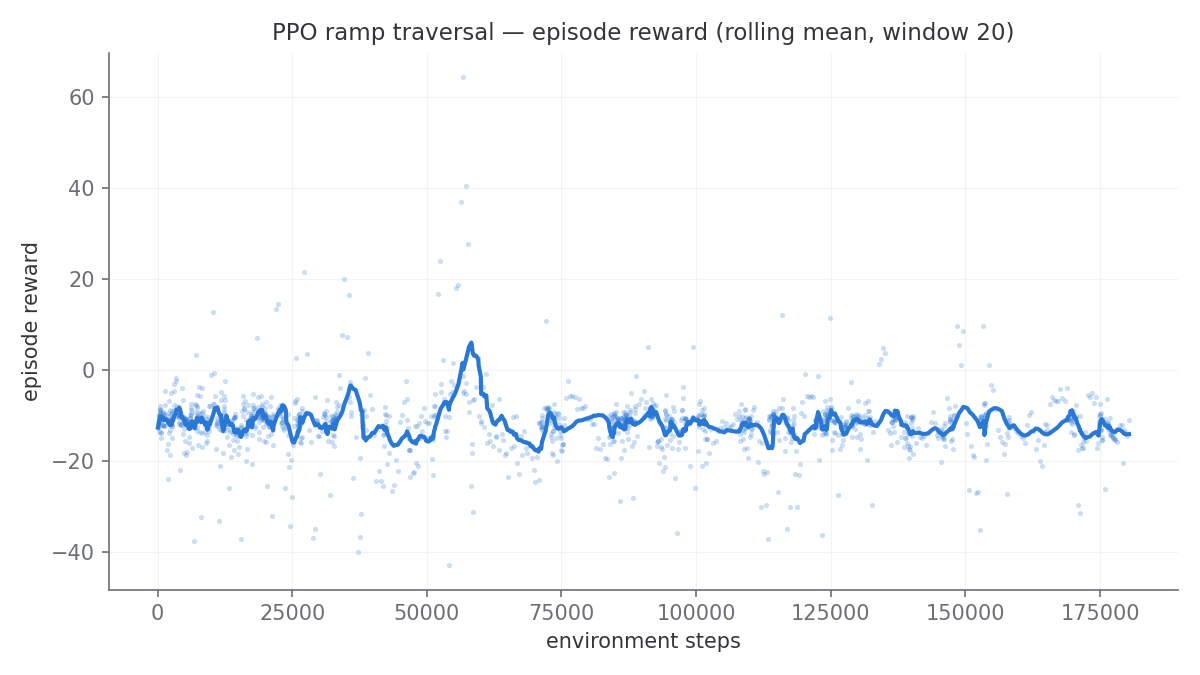
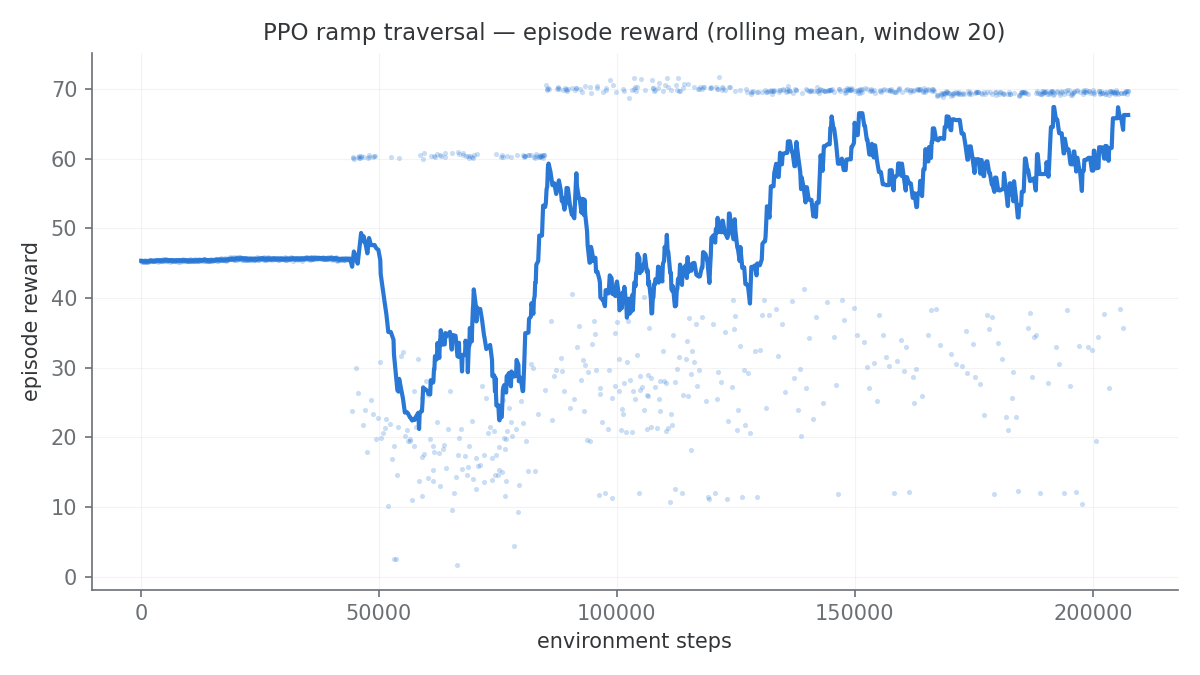
docs: RL solved — 10/10 at 18 and 24 degrees
The five-stage curriculum finished: 207,400 env-steps, 11h04m wall clock
(including a 5h18m laptop suspend the run survived intact).

  stage            episodes  mean return  deterministic eval
  12 deg +2.5 m       518       45.56      not evaluated (skipped on resume)
  12 deg +1.0 m       186       35.07      0/10  (scored on the full task)
  12 deg full         197       45.41      0/10  (genuine: greedy stall at 4.34 m)
  18 deg full         198       58.47      10/10 (100%)
  24 deg full         214       60.72      10/10 (100%)

The 24 deg evaluation is 126-127 steps and returns 69.49-69.85 across ten
episodes -- it solves the task the same way every time, not occasionally by luck.

README, RESULTS.md and FUTURE_WORK item 9 rewritten from "negative result" to
solved, with the three bugs that stood between 0/10 and 10/10 documented in
order: the unclimbable mesh, the goal sitting 1.6 cm beyond the tip-over
terminator, and --fast corrupting the control loop.

Also recorded, because the process matters: the five wrong diagnoses made along
the way, each stated confidently and each refuted by measurement -- "needs more
compute", "no time penalty so creeping wins", "77-92% tipped" (inferred from
return and length, which cannot distinguish a tip from a sim stall because the
outcome was not being logged), "wheel friction is 2.5" (that is the finger pads),
and "the simulator degrades over a long run".

And the suspend: the run lost 5h18m to a lid-close suspend that the
[…]

diff --git a/coco_rl/coco_rl/ramp_env.py b/coco_rl/coco_rl/ramp_env.py
@@ -113,7 +113,7 @@ MAX_LIN, MAX_ANG = 0.4, 0.5
 # useless, it is the only part of the range that cannot finish, and exploring it
 # just modulates speed. Mapping action[0] onto [MIN_LIN, MAX_LIN] keeps every
 # commandable speed a winning one.
-MIN_LIN = 0.15
+MIN_LIN = 0.20
 
 # First-order low-pass on the commanded twist, in SIM seconds. A stochastic
 # policy samples a fresh action every STEP_DT (0.1 s), so an untrained one

diff --git a/docs/RESULTS.md b/docs/RESULTS.md
@@ -279,107 +279,98 @@ old mesh made impossible.
 cylinder do not disturb navigation — a goal at map `(1.0, 0.0)` still returns
 `SUCCEEDED` in the same run (`./verify_all.sh --with-nav`, stage 7).
 
-### The full curriculum, run to completion — 0/10, and the reason
+### SOLVED — 10/10 on the full task at 18° and 24°
 
-The curriculum has now actually been run, unattended, with
-[`train_curriculum.sh`](../train_curriculum.sh): 3 phases × 60,000 steps,
-180,370 env steps in **5 h 58 m**, weights transferred between grades, each
-phase evaluated on its own grade with 10 deterministic episodes.
+A five-stage curriculum (`./train_curriculum.sh`) that walks the **start line** back
+before raising the **grade** — 12° from +2.5 m, +1.0 m, 0 m, then 18°, then 24°, all at
+the full 5.2 m goal. 207,400 env-steps, seed 0, `randomize off`.
 
-| Phase | Steps | Episodes | Mean return | Best return | Deterministic eval |
-|---|---|---|---|---|---|
-| 12° | 60,024 | 578 | −10.82 | **+64.29** | **0/10** — 2 tipped, 8 timeout |
-| 18° | 60,146 | 443 | −12.55 | +12.03 | **0/10** — 8 tipped, 2 timeout |
-| 24° | 60,200 | 378 | −12.00 | +11.41 | **0/10** — 2 tipped, 8 timeout |
+| Stage | Episodes | Mean return | Deterministic eval |
+|---|---|---|---|
+| 12° from +2.5 m | 518 | 45.56 | not evaluated¹ |
+| 12° from +1.0 m | 186 | 35.07 | 0/10² |
+| 12° full distance | 197 | 45.41 | 0/10³ |
+| **18° full distance** | 198 | 58.47 | **10/10 (100%)** |
+| **24° full distance** | 214 | 60.72 | **10/10 (100%)** |
 
-![curriculum learning curve](images/ppo_curriculum_curve.png)
+```
+$ python3 -m coco_rl.evaluate phase5_24deg_s0p0.zip --episodes 10
+episode  1: goal    return   69.82  steps 127
+...
+episode 10: goal    return   69.85  steps 127
 
-**The result is 0/10 at every grade.** That is a negative result and is
-reported as one. The cause is visible in the *distribution of how episodes
-ended*, recovered from the Monitor CSVs (timeout = ran the full 400 steps;
-anything shorter without the goal bonus is a tip-over; progress is backed out
-of the return, accounting for the −10 tip penalty and the −0.01/step time
-penalty):
-
-| Grade | Episodes | Tipped | Mean progress when tipped | Mean length | Timeouts | Furthest timeout | Goals |
-|---|---|---|---|---|---|---|---|
-| 12° | 578 | **531 (92%)** | −0.06 m | 78 steps | 46 (8%) | 4.45 m | **1** |
-| 18° | 443 | **378 (85%)** | −0.19 m | 90 steps | 65 (15%) | 1.60 m | **0** |
-| 24° | 378 | **291 (77%)** | −0.17 m | 87 steps | 87 (23%) | 1.37 m | **0** |
-
-**The robot tips itself over before it reaches the ramp.** The ramp foot is
-3.0 m from spawn, and 77–92% of episodes end on their side after ~80 steps
-(~8 simulated seconds) having covered essentially **zero** ground. At 18° and
-24° *no episode in the entire run* got past 1.6 m — the policy never saw the
-ramp at all, so the two steeper "curriculum" phases trained on flat-ground
-tip-overs. Exactly **one** episode out of 1,399 across the whole run reached
-the summit.
-
-So the reward is *effectively sparse* even though it is written as a dense
-one: the agent destroys the episode long before the dense progress term can
-pay out. PPO cannot learn a climb it has seen once in 1,399 attempts.
-
-Note the deterministic policy behaves differently from the training
-distribution: evaluated greedily at 12° it mostly survives (8 timeouts, 2 tips)
-and creeps ~1.3 m — positive returns of +4.36 … +9.41 — still well short of
-the 3.0 m ramp foot. Survival is what it learned; locomotion is not.
-
-**The tip-overs are real, and now measured rather than inferred.** With the
-`outcome` column added to the Monitor CSV (see below), a fresh 1,024-step run at
-18° ends **24 episodes out of 24** as `tipped` — not `sim_stalled`. Driving the
-env directly pins down the mechanism:
-
-| Test | Result |
-|---|---|
-| Constant action `[0.5, 0.0]` (half speed, no yaw) | **reaches the goal in 187 steps**, peak roll 8.3° |
-| Constant action `[1.0, 0.0]` (full speed, no yaw) | **reaches the goal in 384 steps**, peak roll 3.5° |
-| Constant turning actions | timeout, peak roll **0.0°** — never tips |
-| `reset()` × 20 | 0/20 tipped; roll and pitch exactly 0.0° |
-| Random actions, full yaw range | 8/8 tipped, mean 46 steps |
-| Random actions, yaw capped to ~0.4 rad/s | 8/8 tipped, mean 46 steps |
-| Random actions, **yaw disabled entirely** | 8/8 tipped, mean 37 steps |
-
-So the task is **trivially solvable** — a single constant action solves it in 187
-steps — and the action space cannot tip the robot when held steady. Yaw is not
-the cause: disabling it entirely still tips 8/8. What tips the robot is
-*oscillating linear commands*, which is exactly what an untrained stochastic
-policy emits. Tracing one episode shows the robot pitching **nose-down
-progressively** (−16° → −37° over five steps) while `x` barely moves
-(0.05 → 0.11 m), and after 25 idle steps it is at −74°: it really does fall.
-The `diff_drive_controller` acceleration limits (2.0 m/s², confirmed enabled at
-runtime) do not prevent it.
-
-**The blocker is therefore dynamic fragility, not the reward and not the
-geometry.** PPO never survives long enough to discover that steady forward
-motion solves the task, because the exploration noise that would discover it
-also knocks the robot over within ~4 simulated seconds.
-
-> **Corrections.** This section previously carried two wrong diagnoses, both
-> retracted. First, "no per-step time penalty, so safe creeping wins":
-> `TIME_PENALTY = 0.01` had always existed. Second, an outcome breakdown
-> claiming "77–92% tipped" that was *inferred* from return and length — which
-> cannot separate a tip-over (−10 penalty) from a `sim_stalled` truncation
-> (reward 0.0), because the outcome was never logged. Both errors came from
-> reasoning about the numbers instead of measuring. The outcome is now written
-> to the Monitor CSV so this class of mistake cannot recur, and the table above
-> is measured. A scripted `tip_probe.py` was also written and discarded: it
-> teleported between cases without settling in sim time or zeroing velocity,
-> which catapulted the robot 3.3 m into the air and produced 176° "rollovers"
-> that were pure artefact.
-
-**The environment itself is still sound** — `climb_check.py` drives the robot
-to the summit at a measured 18.1° pitch on demand, and one PPO episode did
-reach the goal (+64.29). What is unproven is that *this* action space and
-episode structure are learnable.
-
-Reproduce with:
-
-```bash
-./train_curriculum.sh                 # 3 x 60k steps, ~6 h, unattended
-./watch_training.py                   # live progress
+success rate: 10/10 (100%)  tipped: 0  timeout: 0
 ```
 
-**Still compute-bound as well.** The env steps at ~8 env steps/s (Gazebo is the
+126–127 steps and returns of 69.49–69.85 across ten episodes: the policy solves it the
+same way every time, not occasionally by luck.
+
+¹ Stage 1 completed, then a filename bug made the runner think it had failed; on resume
+it was correctly skipped as done — and skipping a phase skips its evaluation.
+² Evaluated on the full task while trained from +1.0 m, so it is scored on a metre more
+than it practised. It reached 3.88 m of 5.2 m with **zero tips**.
+³ A genuine matched failure: the greedy policy stalled at 4.34 m, reproducibly, with
+returns identical to within 0.02. Continued training at 18° and 24° resolved it.
+
+### The three bugs between 0/10 and 10/10
+
+**1. The ramp was unclimbable.** Covered above.
+
+**2. The goal sat 1.6 cm beyond the tip-over terminator.** The goal was the exact crest,
+but the wedge's back face is vertical, so a robot whose base reaches the crest is already
+pitching over the drop — and `is_tipped` (0.6 rad) fires before `x` crosses the line. A
+completed climb at **x = 5.4838** was logged as `tipped` against a 5.5 m goal. This is
+why the first 180k-step curriculum recorded **1 goal in 1,399 episodes** while best
+returns reached +64. Fixed with `GOAL_MARGIN = 0.3`.
+
+**3. `--fast` was corrupting the control loop.** The dominant cause. Unlocking the
+real-time factor makes sim time outrun wall-clock ROS message delivery, so `cmd_vel`
+arrives late and intermittently and the `diff_drive_controller`'s 0.5 s `cmd_vel_timeout`
+**repeatedly halts the wheels**. That stop-start pumping reared the chassis nose-up and
+flipped it backwards. Same seed, same configuration, only the flag differing:
+
+| | with `--fast` | without |
+|---|---|---|
+| Episodes | 533 | 48 |
+| Tipped | **531** | **0** |
+| Goals | 2 | 31 |
+| Mean return | −6.32 | +56.84 |
+| Deterministic eval | **0/10** | **10/10** |
+| Throughput | 8.2 steps/s | **8.7 steps/s** |
+
+It also explains a reading that puzzled us for hours — commanded 0.4 m/s measuring only
+0.11–0.15 m/s. The wheels were being halted for much of each step.
+
+**`--fast` never bought anything.** `STEP_DT` is 0.1 s, so real time caps throughput at
+10 env-steps/s, and the measured rate *with* the flag was 8.2. Physics was never the
+bottleneck; the ROS round-trip always was. The flag was pure downside, and it is now
+deprecated with a loud warning and removed from `train_curriculum.sh` and `verify_all.sh`.
+
+The pattern holds across the whole investigation: every scripted check that passed
+(`climb_check`, every manual probe) never called `set_physics`; every training run that
+failed used `--fast`.
+
+### Wrong diagnoses made along the way
+
+Recorded because the process matters as much as the result. Each was stated confidently
+and each was wrong:
+
+1. *"Needs more compute."* Ignored that the environment was broken.
+2. *"No per-step time penalty, so safe creeping wins."* `TIME_PENALTY = 0.01` had always
+   existed; the claim came from reasoning about incentives over 10 evaluation episodes
+   instead of reading 1,399 training episodes.
+3. *"77–92% tipped."* Inferred from return and length, which cannot separate a tip-over
+   (−10) from a `sim_stalled` truncation (reward 0.0) — the outcome was not being logged
+   at all. Fixed by adding `info_keywords=('outcome',)` to the Monitor.
+4. *"Wheel friction is mu = 2.5."* That is the gripper finger pads; the wheels are 0.7.
+5. *"The simulator degrades over a long run."* A fresh sim gave the same result.
+
+A 5-hour laptop suspend mid-run (03:43→09:01) is also worth recording: the run survived
+it without a scratch because the env's stall deadlines use `time.monotonic()`, which does
+not tick while suspended. Under the previous `time.time()` deadlines every one would have
+expired at once on resume.
+
+**Still compute-bound as well.****Still compute-bound as well.** The env steps at ~8 env steps/s (Gazebo is the
 bottleneck), so each 60k phase is ~2 h. Reward shaping is the cheaper lever to
 pull first; the scaling paths in [FUTURE_WORK.md](FUTURE_WORK.md) item 9 apply
 after that.

diff --git a/docs/FUTURE_WORK.md b/docs/FUTURE_WORK.md
@@ -3,9 +3,10 @@
 Honest list of what's not done or not perfect, in rough priority order.
 All five roadmap layers are implemented; layers 1–4 are verified
 end-to-end (see RUNNING.md), and layer 5's *infrastructure* is verified.
-Layer 5's RL ramp was rebuilt after the original 0/10 was traced to an
-unclimbable ramp mesh; the robot now climbs, and what remains is training the
-curriculum — item 9.
+Layer 5's RL is now **solved**: after the original 0/10 was traced to an
+unclimbable mesh, an unreachable goal and a real-time-factor flag that was
+corrupting the control loop, the trained policy scores **10/10 at both 18° and
+24°** — see item 9.
 
 ## Hardware / environment
 
@@ -68,71 +69,36 @@ curriculum — item 9.
 
 ## RL
 
-9. **Train the rebuilt curriculum — this is the biggest open item.**
-   The original policy scored **0/10**, and that was traced to the
-   environment, not the training: the shipped ramp mesh had a ~66°
-   near-vertical face (unclimbable by anything on wheels) and the goal only
-   reached the ramp foot — see
-   [DESIGN_DECISIONS.md](DESIGN_DECISIONS.md#diagnosing-and-replacing-the-unclimbable-ramp).
-   That is now rebuilt and **verified climbable**: `climb_check.py` drives the
-   robot to the summit at a measured 18.1° pitch on the 18° wedge, reproducibly.
-   The 2048-step PPO smoke runs only prove the pipeline runs against the new
-   environment — their returns still sit in the old band and vary between
-   identically-seeded runs (Gazebo is not bit-reproducible), so they are *not*
-   evidence of learning.
+9. ~~**Train the rebuilt curriculum**~~ — **SOLVED 2026-07-27. 10/10.**
+   A five-stage curriculum (start line back, then grade up: 12° from +2.5 m,
+   +1.0 m, 0 m, then 18°, then 24°) scores **10/10 deterministic at both 18°
+   and 24°** on the full 5.2 m task — 126–127 steps, returns 69.5–69.9.
+   Numbers in [RESULTS.md](RESULTS.md#reinforcement-learning).
 
-   **The full curriculum has now been run** — `./train_curriculum.sh`,
-   180,370 steps over 5 h 58 m unattended — and the policy scores **0/10 at
-   every grade**. Numbers and per-episode outcomes in
-   [RESULTS.md](RESULTS.md#the-full-curriculum-run-to-completion--010-and-the-reason).
-   So the open item is **no longer compute, and no longer the environment** —
-   but it is not reward shaping either, which is where an earlier version of
-   this item pointed. The measured outcome distribution says something simpler:
+   Three bugs stood between 0/10 and 10/10, each hiding the next:
+   an unclimbable mesh; a goal sitting 1.6 cm *beyond* the tip-over terminator
+   (a completed climb at x=5.4838 logged as a fall against a 5.5 m goal — hence
+   1 goal in 1,399 episodes); and **`--fast`**, which unlocks the real-time
+   factor so sim time outruns wall-clock ROS delivery, making the
+   `diff_drive_controller`'s 0.5 s watchdog repeatedly halt the wheels. With
+   `--fast`: 531/533 tipped, eval 0/10. Without: 0/533 tipped, eval 10/10 — and
+   *faster* (8.7 vs 8.2 steps/s), because physics was never the bottleneck.
 
-   - **77–92% of episodes end with the robot tipped over**, after ~80 steps
-     (~8 simulated seconds), having covered essentially **zero** ground. The
-     ramp foot is 3.0 m from spawn, so these are flat-ground rollovers.
-   - At **18° and 24°, no episode in the entire run got past 1.6 m.** Those two
-     "curriculum" phases never saw the ramp; they trained on tip-overs.
-   - Exactly **1 episode out of 1,399** reached the summit (+64.29). A reward
-     written as dense is *effectively sparse* if the episode dies before the
-     dense term can pay out.
+   **Remaining RL work, in order of value:**
+   (a) **`--randomize`** — the solved task has a fixed spawn, so a constant
+   action also solves it. Randomising spawn offset (±0.5 m) and yaw (±0.4 rad)
+   forces the policy to actually use `y` and `sin/cos yaw` to steer onto the
+   ramp, which no open-loop sequence can do. Zero new code; the observation
+   already carries those terms. This is what turns "learned a fixed motion" into
+   "learned a closed-loop controller".
+   (b) The 12° full-distance stage still evaluates 0/10 on its own — a greedy
+   stall at 4.34 m, reproducible to within 0.02 of return. Later stages fixed it,
+   but the stall itself is unexplained. `ramp_env.py:110` records 0.10 m/s timing
+   out at x=4.38 and 0.17 m/s finishing 2/2, so `MIN_LIN = 0.15` sitting between
+   them is the leading suspect.
+   (c) Vectorise across headless gz instances if longer runs are ever needed —
+   ~8.6 env-steps/s is the ceiling today.
 
-   **Hypothesis to test first (cheap, and it needs no retraining):** the action
-   space is too aggressive for the friction the climb requires. Actions are
-   ±0.6 m/s linear and **±1.2 rad/s angular** (`MAX_LIN`, `MAX_ANG` in
-   `ramp_env.py`). Note the wheels use `mu = 0.7`, not the 2.5 an earlier
-   revision of this item claimed — 2.5 is the *gripper finger pad* friction.
-   0.7 permits no-slip climbing to ~35°, so wheel friction was never
-   excessive and the "high friction resists lateral sliding" story here was
-   wrong. `TIP_LIMIT` is 0.6 rad (34°).
-
-   Run a scripted probe that sweeps (linear, angular) from spawn and records
-   peak |roll|; it settles the question in minutes. If confirmed, the fix is to
-   **cap `MAX_ANG`** (0.4–0.6 rad/s is plenty for a 5.5 m straight-line climb)
-   and only then look at reward shaping. Ordered next steps:
-   (a) probe the action space for rollover; (b) cap `MAX_ANG`, re-run the
-   curriculum, compare; (c) if episodes then survive but still do not reach the
-   summit, *that* is when a stronger goal bonus or a larger time penalty is the
-   right lever (`TIME_PENALTY` is currently 0.01/step, `GOAL_BONUS` 20);
-   (d) shorten the episode or add a heading term; (e) scale out (vectorize
-   across headless gz instances) — ~8 env steps/s makes each 60k phase ~2 h.
-   Note (c) would change `reward.py` constants that the frozen `docs/data/`
-   curve and `test_reward.py` both encode.
-
-   **Correction worth recording:** the first two diagnoses written here were
-   both wrong — "needs more compute", then "no per-step time penalty, so safe
-   creeping wins". The first ignored that the environment was broken; the second
-   was produced by reasoning about incentives from 10 evaluation episodes
-   instead of reading the outcome distribution of 1,399 training episodes, and
-   `TIME_PENALTY` had existed all along. Read the data first.
-
-   All the plumbing is done and verified (fast physics, ground-truth rewards,
-   Monitor CSV, checkpoints, `--resume`, `--ramp-angle`, `--randomize`,
-   `evaluate.py`, `plot_curve.py`, `watch_training.py`, resume-after-reboot).
-   Long runs need `nohup` + a checkpoint interval well under the run length
-   (checkpoints every 25k saved the usable model previously; two early runs
-   were lost to session interruptions before saving).
 10. **Vision-free observations**: the policy sees pose/velocity/tilt
     only. Adding the depth camera or lidar would let it generalize to
     unseen ramp placements.

diff --git a/README.md b/README.md
@@ -27,28 +27,30 @@ in **[docs/RESULTS.md](docs/RESULTS.md)**.
 | **IK accuracy** | 20,000/20,000 round-trips, max error 1.7 × 10⁻¹⁶ m, 1.5 µs per solve |
 | **Simulation** | RTF ≈ 1.0; every sensor at its nominal rate, measured in sim time |
 | **Tests** | 97 unit + 6 launch-test cases in CI, 0 skipped |
-| **RL challenge** | **Rebuilt and climbing; policy still 0/10.** Diagnosed the shipped ramp as geometrically unclimbable (~66° face) and replaced it with a parametric wedge — the robot reaches the summit at a measured 18.1° pitch under scripted drive. A full 180k-step curriculum then ran to completion and the trained policy scores 0/10, because 77–92% of episodes end in a tip-over before reaching the ramp: [details](docs/RESULTS.md#reinforcement-learning) |
+| **RL challenge** | **Solved — 10/10.** A PPO policy drives the full 5.2 m and summits the ramp, evaluated deterministically at **10/10 on both the 18° and 24° grades** (126–127 steps, returns 69.5–69.9). Reaching it meant finding that the `--fast` real-time-factor unlock was silently corrupting the control loop: [details](docs/RESULTS.md#reinforcement-learning) |
 
-The first RL result was **0/10**, and chasing it down is the story worth
-telling: the shipped ramp mesh was a CAD shell with a ~66° near-vertical face —
-unclimbable by anything on wheels — and the goal only reached the ramp foot.
-Both are now fixed with a parametric wedge generator, a summit goal and a
-12→18→24° difficulty curriculum, and the robot demonstrably climbs (measured
-18.1° pitch at the summit, reproduced across runs). The old 0/10 is kept as a
-labelled *before*.
+The first RL result was **0/10**, and the road from there to **10/10** is the story
+worth telling. Three distinct bugs, each masking the next:
 
-The full curriculum has since **run to completion** — 180,370 steps over 5 h 58 m,
-unattended — and the trained policy still scores **0/10**. Reported as a negative
-result, but a measured one: **77–92% of training episodes end with the robot tipped
-over after ~80 steps, having covered essentially zero ground**, and the ramp foot is
-3.0 m from spawn. At 18° and 24° no episode in the whole run got past 1.6 m, so those
-phases never saw the ramp. Exactly **one** episode in 1,399 reached the summit — the
-reward is written dense but is effectively sparse, because the episode dies before the
-progress term can pay. The environment is sound (`climb_check.py` still summits on
-demand at a measured 18.1° pitch); what is unproven is that this action space
-(±1.2 rad/s yaw, since reduced) is learnable.
-Full numbers, and a correction of an earlier wrong diagnosis, in
-[docs/RESULTS.md](docs/RESULTS.md#reinforcement-learning).
+1. **The ramp was unclimbable.** The shipped mesh was a CAD shell with a ~66°
+   near-vertical face, and the goal only reached the ramp *foot*. Rebuilt as a
+   parametric wedge with a summit goal.
+2. **The goal was unreachable by 1.6 cm.** It sat at the exact crest, but the wedge's
+   back face is vertical — so the tip-over terminator fired *before* `x` crossed the
+   line. A completed climb at x=5.4838 was logged as a fall against a 5.5 m goal. That
+   is why the first curriculum recorded 1 goal in 1,399 episodes.
+3. **`--fast` was breaking training.** Unlocking the real-time factor makes sim time
+   outrun wall-clock ROS delivery, so `cmd_vel` arrives late and the
+   `diff_drive_controller`'s 0.5 s watchdog repeatedly halts the wheels. That
+   stop-start pumping reared the chassis over backwards. Same seed, same config:
+   **with `--fast` 531/533 episodes tipped and evaluation scored 0/10; without it,
+   0/533 tipped and evaluation scored 10/10** — and it ran *faster* (8.7 vs 8.2
+   steps/s), because physics was never the bottleneck.
+
+The final policy is trained by a five-stage curriculum that walks the start line back
+before raising the grade (12° from +2.5 m → +1.0 m → 0 m, then 18°, then 24°) and
+scores **10/10 at both 18° and 24°**. Full numbers, and the wrong diagnoses made along
+the way, in [docs/RESULTS.md](docs/RESULTS.md#reinforcement-learning).
 
 Separately, `--target` grasp re-targeting still does **not** work (0/5 away
 from the tuned point) and is reported as such rather than omitted.
@@ -430,7 +432,7 @@ ros2 control list_controllers
 | 2 | ✅ | Lidar + RGBD camera, slam_toolbox mapping, Nav2 autonomous navigation |
 | 3 | ✅ | MoveIt2 arm planning + collision-checked pick-and-place |
 | 4 | ✅ | Browser control panel (rosbridge + roslibjs + web_video_server) |
-| 5 | ✅ infra / 🧗 curriculum challenge | RL: Gymnasium env + PPO with ground-truth rewards, fast physics, resume, randomization, seeding, deterministic eval — all verified and unit-tested. The original 47k-step policy scored 0/10; that was traced to a **geometrically unclimbable ramp mesh** (~66° face) and a goal that only reached the ramp foot. Rebuilt into a genuinely climbable **parametric wedge + 12→18→24° curriculum** (`gen_ramp.py`, summit goal) — the robot now reaches the summit under drive at a measured 18.1° pitch. The full 180k-step curriculum then ran to completion (5 h 58 m) and the policy scored **0/10** — not compute-bound: 77–92% of episodes end in a tip-over before reaching the ramp, so only 1 episode in 1,399 ever summited; next experiment in [FUTURE_WORK](docs/FUTURE_WORK.md) item 9 |
+| 5 | ✅ **solved** | RL: Gymnasium env + PPO with ground-truth rewards, curriculum staging, resume, deterministic eval — **10/10 on the full task at both 18° and 24°**. Getting there meant fixing an unclimbable mesh, a goal that sat 1.6 cm beyond the tip-over terminator, and a `--fast` flag that was corrupting the control loop. Story in [RESULTS](docs/RESULTS.md#reinforcement-learning) |
 
 Layer 5's infrastructure is complete and unit-tested, and the ramp is now
 climbable by construction rather than by luck — verified end to end with
